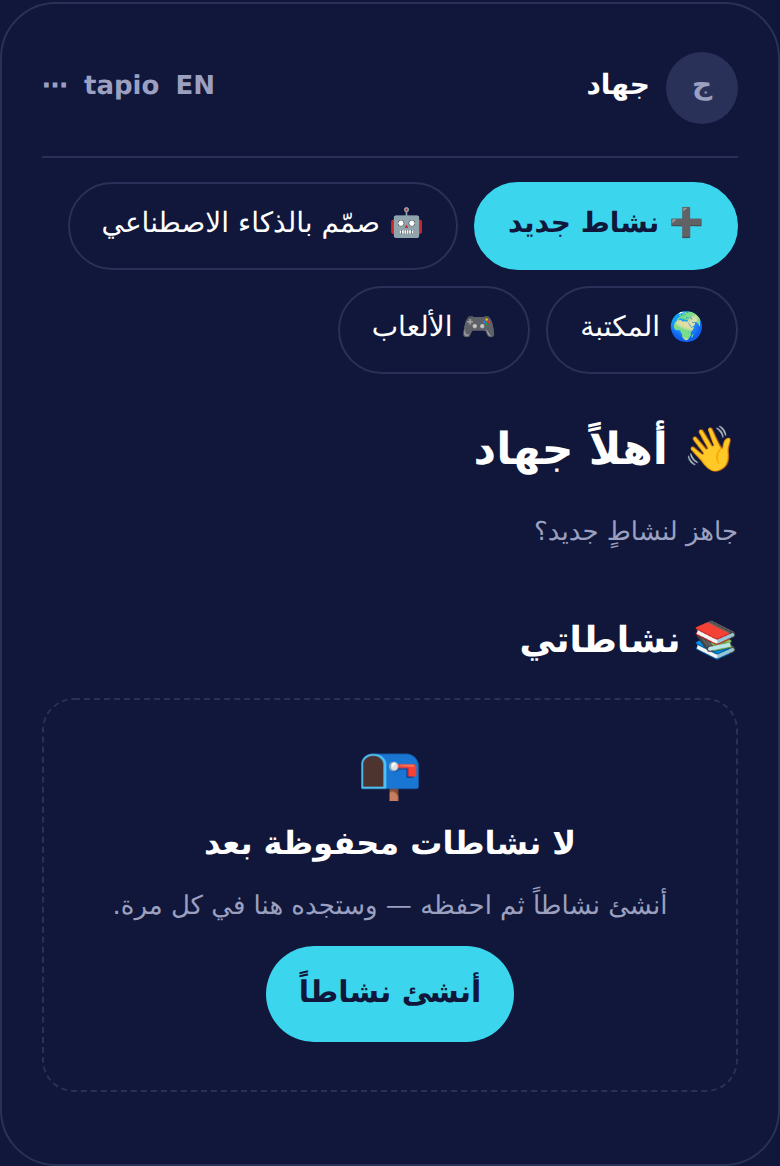
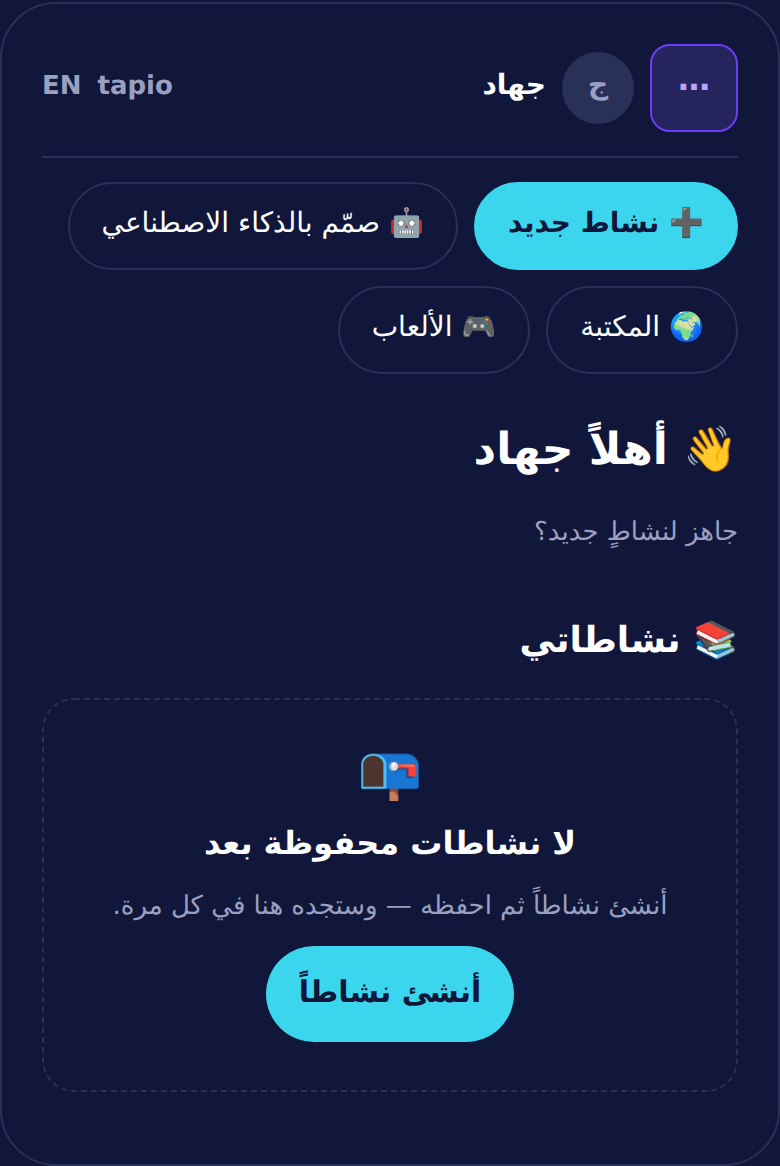
زرّ القائمة ولوحتها في بداية القراءة، ومميَّزٌ بلون العلامة
- الزرّ ولوحته انتقلا إلى طرف بداية القراءة: يمين الشاشة في الواجهة
  العربية، ويسارها في الإنجليزية. كان في الطرف المقابل، فيبدأ المعلّم
  من حيث لا تبدأ عينه.
- اللوحة تنسدل من الطرف نفسه (inset-inline-start) بدل الطرف المقابل،
  ومعها تثبيتها بالبكسل كما هي.
- الزرّ صار مميَّزاً: إطارٌ وخلفيةٌ خفيفة بلون العلامة، ويمتلئ بها حين
  تُفتح القائمة، بدل رماديٍّ يضيع بين الشارات.
- طرفا الشريط (tp-bar-start و tp-bar-end) انتقلا إلى الملف المشترك،
  فشاشة المتدرب ورئيسية المعلّم تستعملان القطعة نفسها.

مقيسٌ بحسابٍ حقيقي على 360px و390px وبالواجهتين: الزرّ واللوحة في يمين
الشاشة عربياً وفي يسارها إنجليزياً، بلا تجاوزٍ للحافة، وسطورها كما هي.

Claude-Session: https://claude.ai/code/session_01DZnxEvHLGNwjK8mvzZjy98

Changed region(s): [[0.6154, 0.0309, 0.9538, 0.1235], [0.0615, 0.0617, 0.2769, 0.0926]]

diff --git a/public/assets/css/tapio-base.css b/public/assets/css/tapio-base.css
@@ -50,6 +50,7 @@
   --tp-status-correct: var(--tp-correct);
   --tp-status-wrong: var(--tp-a);
   --tp-ghost-text: var(--tp-purple);
+  --tp-menu-btn-bg: rgba(108, 61, 244, 0.08);
   --tp-scrim: rgba(16, 23, 58, 0.45);
   --tp-canvas: #edecea;
   --tp-dim: 0.35;
@@ -148,6 +149,7 @@
   --tp-status-correct: #4fce85;
   --tp-status-wrong: #ff7a72;
   --tp-ghost-text: var(--tp-purple-tint);
+  --tp-menu-btn-bg: rgba(139, 102, 247, 0.18);
   --tp-canvas: #10173a;
   --tp-dim: 0.3;
 }
@@ -174,11 +176,31 @@
   --tp-status-correct: #1f9d55;
   --tp-status-wrong: #d6403f;
   --tp-ghost-text: var(--tp-purple);
+  --tp-menu-btn-bg: rgba(108, 61, 244, 0.08);
   --tp-canvas: #edecea;
   --tp-dim: 0.35;
 }
 
 /* ------------------- قائمة الشريط العلوي — مشتركة بين الشاشتين */
+
+/* ------------------- طرفا الشريط العلوي — مشتركان بين الصفحتين */
+
+/* بداية الشريط: زرّ القائمة ثم الهوية — كلاهما في جهة بداية القراءة */
+.tp-bar-start {
+  display: flex;
+  align-items: center;
+  gap: var(--tp-s-8);
+  min-width: 0;
+}
+
+.tp-bar-end {
+  display: flex;
+  align-items: center;
+  gap: var(--tp-s-8);
+  /* يبقى في طرف الشريط حتى لو غابت هوية المعلّم (زائرٌ بلا حساب)، وإلا
+     انزلق إلى الوسط وانزلقت معه قائمته فخرجت عن حافة الشاشة */
+  margin-inline-start: auto;
+}
 
 /*
  * قائمةٌ من سطورٍ كاملة العرض، سطرٌ فوق سطر. لا شبكة ولا أعمدة أبداً:
@@ -190,9 +212,14 @@
   position: relative;
 }
 
+/*
+ * تنسدل من بداية القراءة: يمين الشاشة بالعربية ويسارها بالإنجليزية — من
+ * الجهة التي تبدأ منها العين، ومن الجهة التي فيها زرّها.
+ */
 .tp-menu__panel {
   position: absolute;
-  inset-inline-end: 0;
+  inset-inline-start: 0;
+  inset-inline-end: auto;
   top: calc(100% + var(--tp-s-6));
   z-index: 30;
   /* مربوطةٌ بالزرّ، ولا تتجاوز الشاشة مهما ضاقت */
@@ -307,8 +334,28 @@
   color: var(--tp-status-wrong);
 }
 
-/* زرّ القائمة نفسه: كل ضاغطٍ خارج الخيارات لا يقلّ عن 44px */
+/*
+ * زرّ القائمة: مميَّزٌ بلون العلامة لا رماديٌّ كبقية الشريط — هو المدخل
+ * الوحيد إلى الإعدادات والحساب، فلا يصحّ أن يختفي بين الشارات.
+ */
+.tp-menu__btn,
 .tp-menu > .icon-btn {
   min-height: var(--tp-tap-min);
   min-width: var(--tp-tap-min);
+  border: var(--tp-hair) solid var(--tp-purple);
+  background: var(--tp-menu-btn-bg);
+  color: var(--tp-ghost-text);
+  font-weight: var(--tp-w-700);
+}
+
+/* مفتوحة: يمتلئ الزرّ بلون العلامة فيقول أين أنت */
+.tp-menu__btn[aria-expanded='true'] {
+  background: var(--tp-purple);
+  border-color: var(--tp-purple);
+  color: var(--tp-white);
+}
+
+.tp-menu__btn:focus-visible {
+  outline: var(--tp-s-2) solid var(--tp-purple);
+  outline-offset: var(--tp-s-2);
 }

diff --git a/public/host.html b/public/host.html
@@ -18,10 +18,19 @@
     <div class="topbar tp">
       <!-- هوية المعلّم في طرف، والشعار ورمز اللغة في الطرف الآخر، وما عداهما
            خلف زرٍّ واحد: شاشة الجوال لا تحتمل صفّاً من ثمانية أزرار -->
-      <a class="tp-who" href="#/profile" id="whoLink">
-        <span class="tp-avatar" id="whoAvatar" aria-hidden="true"></span>
-        <span class="tp-who__name" id="whoName"></span>
-      </a>
+      <!-- زرّ القائمة في **بداية القراءة**: يمين الشاشة بالعربية ويسارها
+           بالإنجليزية، وتنسدل لوحته من الطرف نفسه فلا يقطعها حدّ الشاشة -->
+      <div class="tp-bar-start">
+        <div class="tp-menu">
+          <button id="menuBtn" class="icon-btn tp-menu__btn" type="button" aria-haspopup="menu" aria-expanded="false">⋯</button>
+          <!-- سطورها تُبنى في host.js: هوية الحساب، ثم تنقّل، ثم إعدادات، ثم الحساب -->
+          <div id="hostMenu" class="tp-menu__panel" role="menu" hidden></div>
+        </div>
+        <a class="tp-who" href="#/profile" id="whoLink">
+          <span class="tp-avatar" id="whoAvatar" aria-hidden="true"></span>
+          <span class="tp-who__name" id="whoName"></span>
+        </a>
+      </div>
       <div class="tp-bar-end">
         <span id="codeBadge" class="badge hidden"></span>
         <span id="conn" class="badge hidden">…</span>
@@ -29,11 +38,6 @@
           <img class="logo light-only" src="/assets/logo.svg?v=1.65.0" alt="Tapio" width="249" height="159" /><img class="logo dark-only" src="/assets/logo-white.svg?v=1.65.0" alt="Tapio" width="249" height="159" />
         </a>
         <span id="langRow"></span>
-        <div class="tp-menu">
-          <button id="menuBtn" class="icon-btn" type="button" aria-haspopup="menu" aria-expanded="false">⋯</button>
-          <!-- سطورها تُبنى في host.js: هوية الحساب، ثم تنقّل، ثم إعدادات، ثم الحساب -->
-          <div id="hostMenu" class="tp-menu__panel" role="menu" hidden></div>
-        </div>
       </div>
     </div>
 

diff --git a/public/play.html b/public/play.html
@@ -16,17 +16,20 @@
   </head>
   <body>
     <div class="topbar tp">
-      <div class="brand"><img class="dot" src="/assets/icon.svg?v=1.65.0" alt="" width="34" height="34" /><span id="quizTitle" class="title-line">Tapio</span></div>
-      <div class="topbar-actions">
-        <span id="conn" class="badge">…</span>
-        <span id="teamBadge" class="badge hidden"></span>
-        <span id="scoreBadge" class="badge hidden">0</span>
-        <!-- الصوت واللغة والسِمَة خلف زرٍّ واحد: شاشة السؤال لا تحتمل صفّاً من الأزرار -->
+      <!-- الصوت واللغة والسِمَة خلف زرٍّ واحد، في بداية القراءة: يمين الشاشة
+           بالعربية ويسارها بالإنجليزية، وتنسدل لوحته من الطرف نفسه -->
+      <div class="tp-bar-start">
         <div class="tp-menu">
-          <button id="exitBtn" class="icon-btn" type="button" aria-haspopup="menu" aria-expanded="false">⋯</button>
+          <button id="exitBtn" class="icon-btn tp-menu__btn" type="button" aria-haspopup="menu" aria-expanded="false">⋯</button>
           <!-- سطورها تُبنى في play.js: الصوت واللغة والسِمَة ثم المغادرة -->
           <div id="exitMenu" class="tp-menu__panel" role="menu" hidden></div>
         </div>
+        <div class="brand"><img class="dot" src="/assets/icon.svg?v=1.65.0" alt="" width="34" height="34" /><span id="quizTitle" class="title-line">Tapio</span></div>
+      </div>
+      <div class="tp-bar-end">
+        <span id="conn" class="badge">…</span>
+        <span id="teamBadge" class="badge hidden"></span>
+        <span id="scoreBadge" class="badge hidden">0</span>
       </div>
     </div>
 

diff --git a/public/design/teacher-home.html b/public/design/teacher-home.html
@@ -101,8 +101,12 @@
 
         function bar() {
           return el('div', { class: 'bar' }, [
-            el('span', { class: 'tp-who' }, [UI.Avatar({ name: 'جهاد' }), el('span', { class: 'tp-who__name', text: 'جهاد' })]),
-            el('div', { class: 'bar__end' }, [el('span', { text: 'EN' }), el('span', { text: 'tapio' }), el('span', { text: '⋯' })]),
+            el('span', { class: 'tp-bar-start' }, [
+              // زرّ القائمة في بداية القراءة، مميَّزٌ بلون العلامة
+              el('span', { class: 'icon-btn tp-menu__btn', text: '⋯' }),
+              el('span', { class: 'tp-who' }, [UI.Avatar({ name: 'جهاد' }), el('span', { class: 'tp-who__name', text: 'جهاد' })]),
+            ]),
+            el('div', { class: 'bar__end' }, [el('span', { text: 'tapio' }), el('span', { text: 'EN' })]),
           ]);
         }
 

diff --git a/public/assets/css/teacher.css b/public/assets/css/teacher.css
@@ -48,15 +48,6 @@
   object-fit: cover;
 }
 
-.tp-bar-end {
-  display: flex;
-  align-items: center;
-  gap: var(--tp-s-8);
-  /* يبقى في طرف الشريط حتى لو غابت هوية المعلّم (زائرٌ بلا حساب)، وإلا
-     انزلق إلى الوسط وانزلقت معه قائمته فخرجت عن حافة الشاشة */
-  margin-inline-start: auto;
-}
-
 /* ------------------------------------------------------ الشاشة */
 
 .tp-home {
